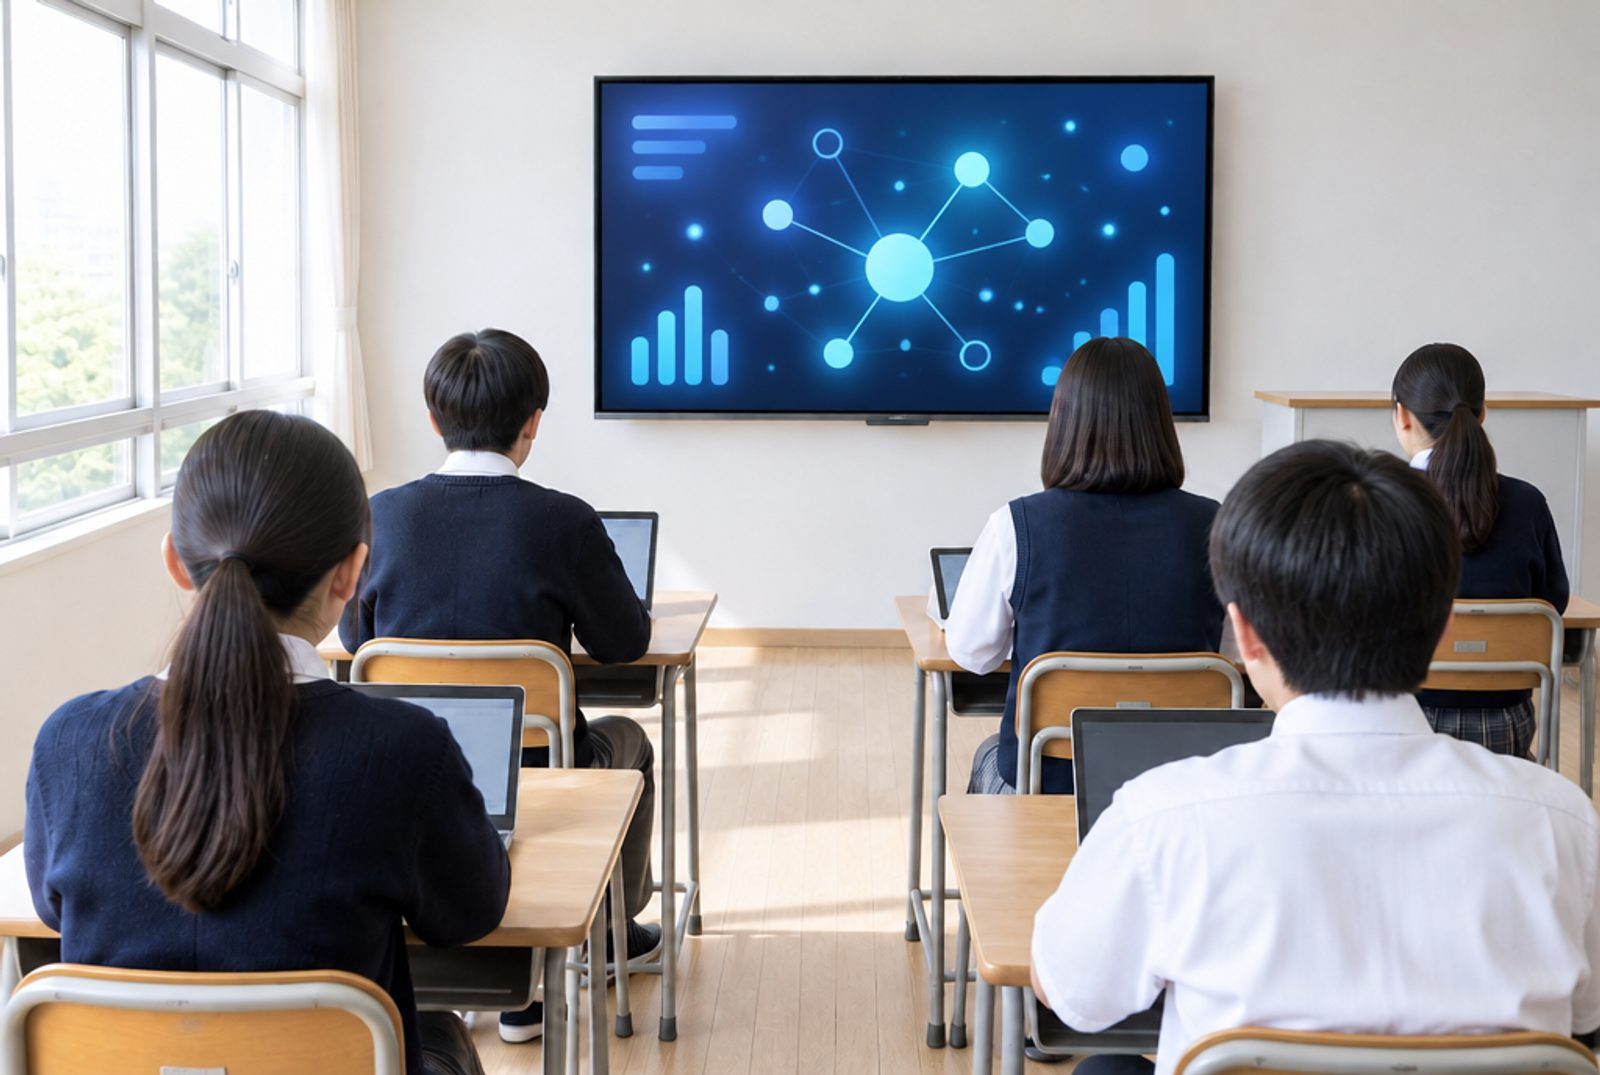
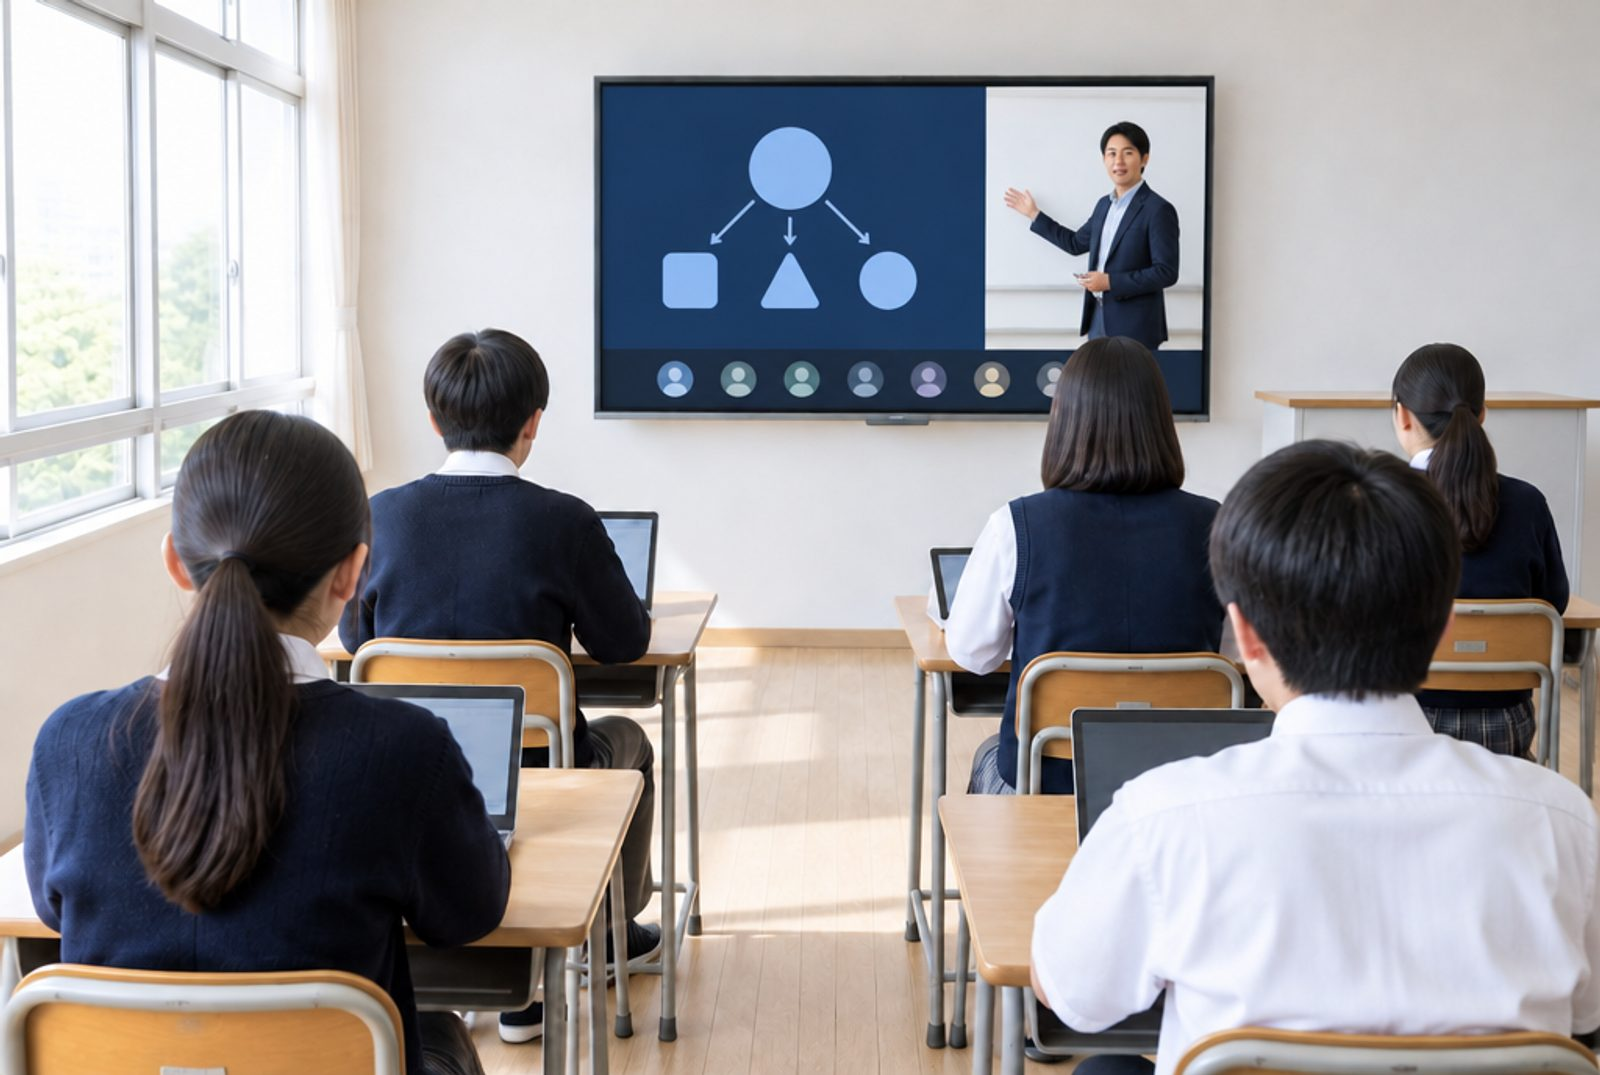
学びの仕組み・講師向けの写真3枚を作り直し（大画面＝実写のウェビナー授業／タブレット＝アバター先生のAIチューター／ノートPC＝生徒が受講する教室の映像）

Changed region(s): [[0.3438, 0.0614, 0.7812, 0.3991]]

diff --git a/index.html b/index.html
@@ -12,7 +12,7 @@
 <link rel="preconnect" href="https://fonts.gstatic.com" crossorigin>
 <link rel="stylesheet" href="https://fonts.googleapis.com/css2?family=Noto+Sans+JP:wght@400;500;700&family=Quicksand:wght@500;600;700&display=swap">
 <link rel="stylesheet" href="https://cdnjs.cloudflare.com/ajax/libs/font-awesome/6.5.2/css/all.min.css">
-<link rel="stylesheet" href="assets/css/style.css?v=202610280600">
+<link rel="stylesheet" href="assets/css/style.css?v=202610280641">
 </head>
 <body id="top" class="home">
 
@@ -56,9 +56,9 @@
 <!-- ===== ヒーロー ===== -->
 <section class="hero" id="hero">
 	<div class="hero-bg">
-		<img src="assets/img/hero_poster.jpg?v=202610280600" alt="" class="hero-still">
-		<video id="heroVideo" class="hero-video" autoplay muted loop playsinline preload="auto" poster="assets/img/hero_poster.jpg?v=202610280600" aria-hidden="true">
-			<source src="assets/img/hero_video.mp4?v=202610280600" type="video/mp4">
+		<img src="assets/img/hero_poster.jpg?v=202610280641" alt="" class="hero-still">
+		<video id="heroVideo" class="hero-video" autoplay muted loop playsinline preload="auto" poster="assets/img/hero_poster.jpg?v=202610280641" aria-hidden="true">
+			<source src="assets/img/hero_video.mp4?v=202610280641" type="video/mp4">
 		</video>
 	</div>
 	<div class="hero-inner" id="heroInner">
@@ -168,7 +168,7 @@
 		</div>
 		<div class="course-visual">
 			<div class="cv-stage">
-				<img src="assets/img/course_tools.jpg?v=202610280600" alt="ドローン・VR・マイク・タブレット・カメラ・鍵盤など、コースで使う道具">
+				<img src="assets/img/course_tools.jpg?v=202610280641" alt="ドローン・VR・マイク・タブレット・カメラ・鍵盤など、コースで使う道具">
 				<svg class="cv-label" viewBox="0 0 1344 390" aria-hidden="true">
 					<defs>
 						<linearGradient id="cvScreen" x1="0" y1="0" x2="0.3" y2="1"><stop offset="0" stop-color="#232596"/><stop offset="1" stop-color="#0B0D3F"/></linearGradient>
@@ -216,7 +216,7 @@
 		</div>
 
 		<div class="split">
-			<div class="split-img"><img src="assets/img/classroom.jpg?v=202610280600" alt="教室で授業を受ける生徒たち"></div>
+			<div class="split-img"><img src="assets/img/classroom.jpg?v=202610280641" alt="教室で授業を受ける生徒たち"></div>
 			<div class="split-txt">
 				<h3>ハイブリッド授業</h3>
 				<p>プロ講師の授業をオンラインで各校舎に配信し、教室には学校の先生が立ち会います。講師が教室を訪れる対面の回を組み合わせることで、画面越しだけでは得られない体験も残します。授業は録画してアーカイブにし、欠席した生徒の学び直しにも使えます。</p>
@@ -224,7 +224,7 @@
 		</div>
 
 		<div class="split rev">
-			<div class="split-img"><img src="assets/img/tablet.jpg?v=202610280600" alt="タブレットで学ぶ"></div>
+			<div class="split-img"><img src="assets/img/tablet.jpg?v=202610280641" alt="タブレットで学ぶ"></div>
 			<div class="split-txt">
 				<h3>3つの独自システム</h3>
 				<dl class="sys-list">
@@ -255,7 +255,7 @@
 			<p class="lead">あなたの専門を、全国の高校生へ。<br class="pc">教えること以外は、METAアカデミーが引き受けます。</p>
 		</div>
 		<div class="split">
-			<div class="split-img"><img src="assets/img/lecturer.jpg?v=202610280600" alt="オンラインで授業を配信する講師"></div>
+			<div class="split-img"><img src="assets/img/lecturer.jpg?v=202610280641" alt="オンラインで授業を配信する講師"></div>
 			<div class="split-txt">
 				<ul class="check-list">
 					<li><strong>授業に集中できる</strong><span>学校との調整・契約・請求・生徒への連絡は、すべてMETAが代行します。</span></li>
@@ -399,6 +399,6 @@
 </footer>
 
 <a href="#top" class="to-top" id="toTop" aria-label="ページの先頭へ"><i class="fa-solid fa-chevron-up"></i></a>
-<script src="assets/js/main.js?v=202610280600"></script>
+<script src="assets/js/main.js?v=202610280641"></script>
 </body>
 </html>
